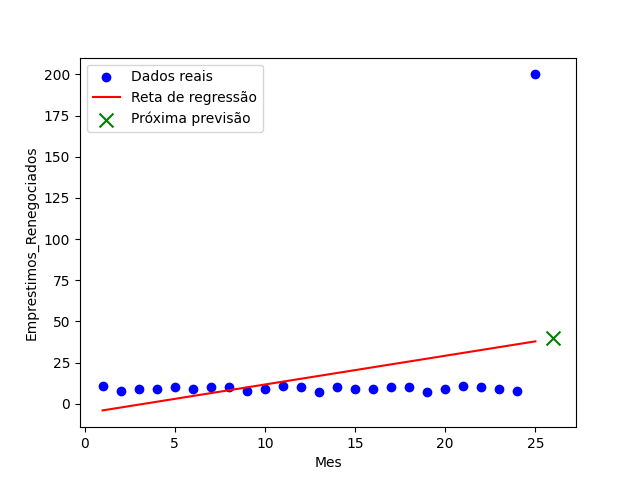
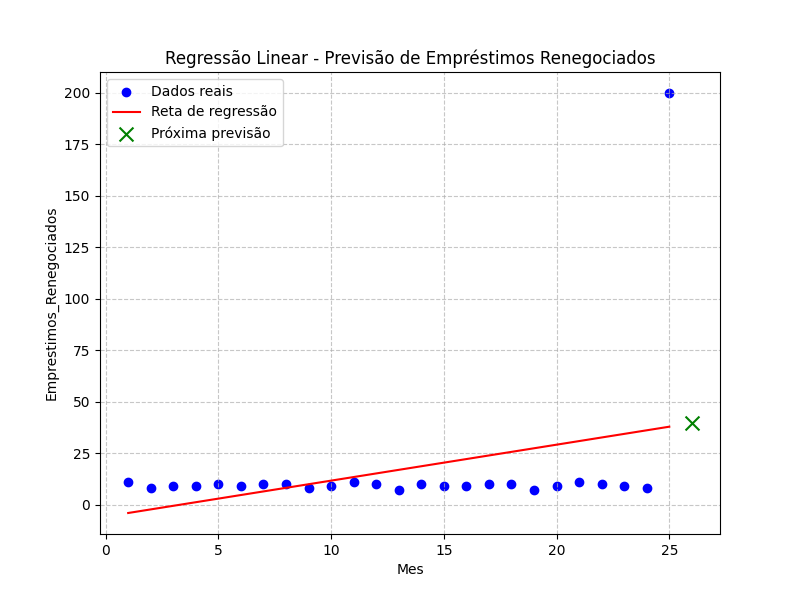
atualizando imagem

diff --git a/regressao.py b/regressao.py
@@ -21,11 +21,14 @@ proxima_previsao = modelo.predict(proximo_x)
 print(f"Próximo valor previsto para Mes={proximo_x[0][0]} é Emprestimos_Renegociados={proxima_previsao[0]:.2f}")
 
 # 5. Visualizar os dados e a reta de regressão
+plt.figure(figsize=(8,6))
 plt.scatter(X, y, color="blue", label="Dados reais")
 plt.plot(X, modelo.predict(X), color="red", label="Reta de regressão")
 plt.scatter(proximo_x, proxima_previsao, color="green", marker="x", s=100, label="Próxima previsão")
 
 plt.xlabel("Mes")
 plt.ylabel("Emprestimos_Renegociados")
+plt.title("Regressão Linear - Previsão de Empréstimos Renegociados")
 plt.legend()
+plt.grid(True, linestyle="--", alpha=0.7)  # grade mais discreta
 plt.show()
